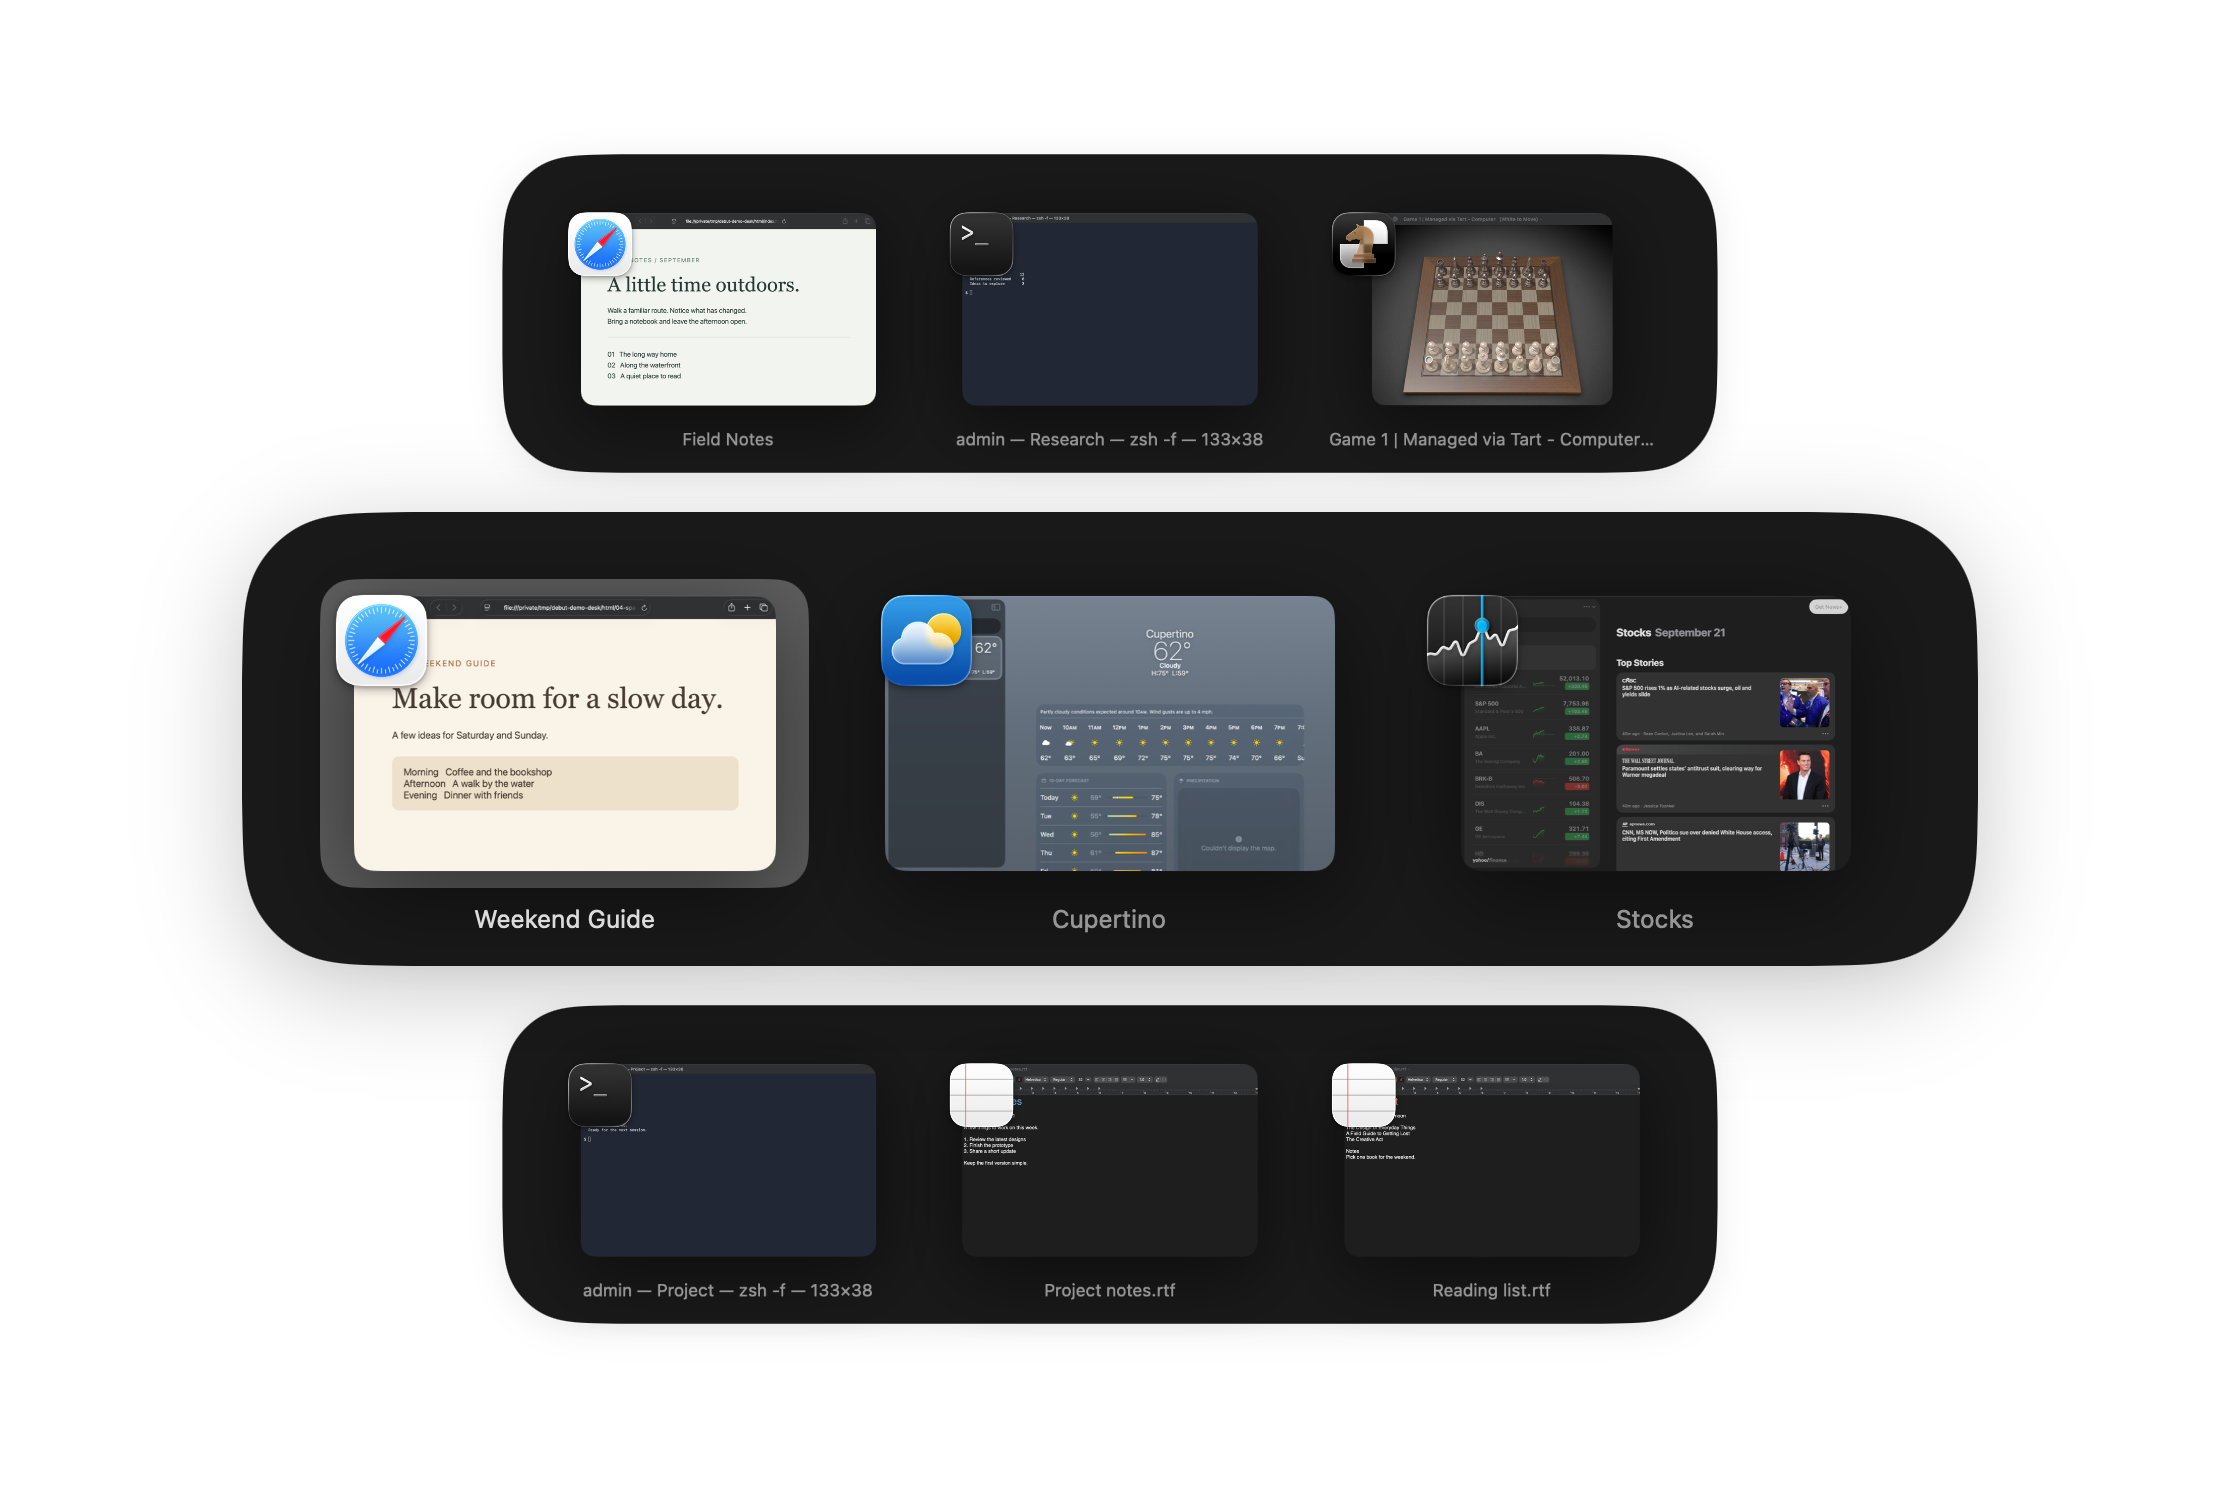
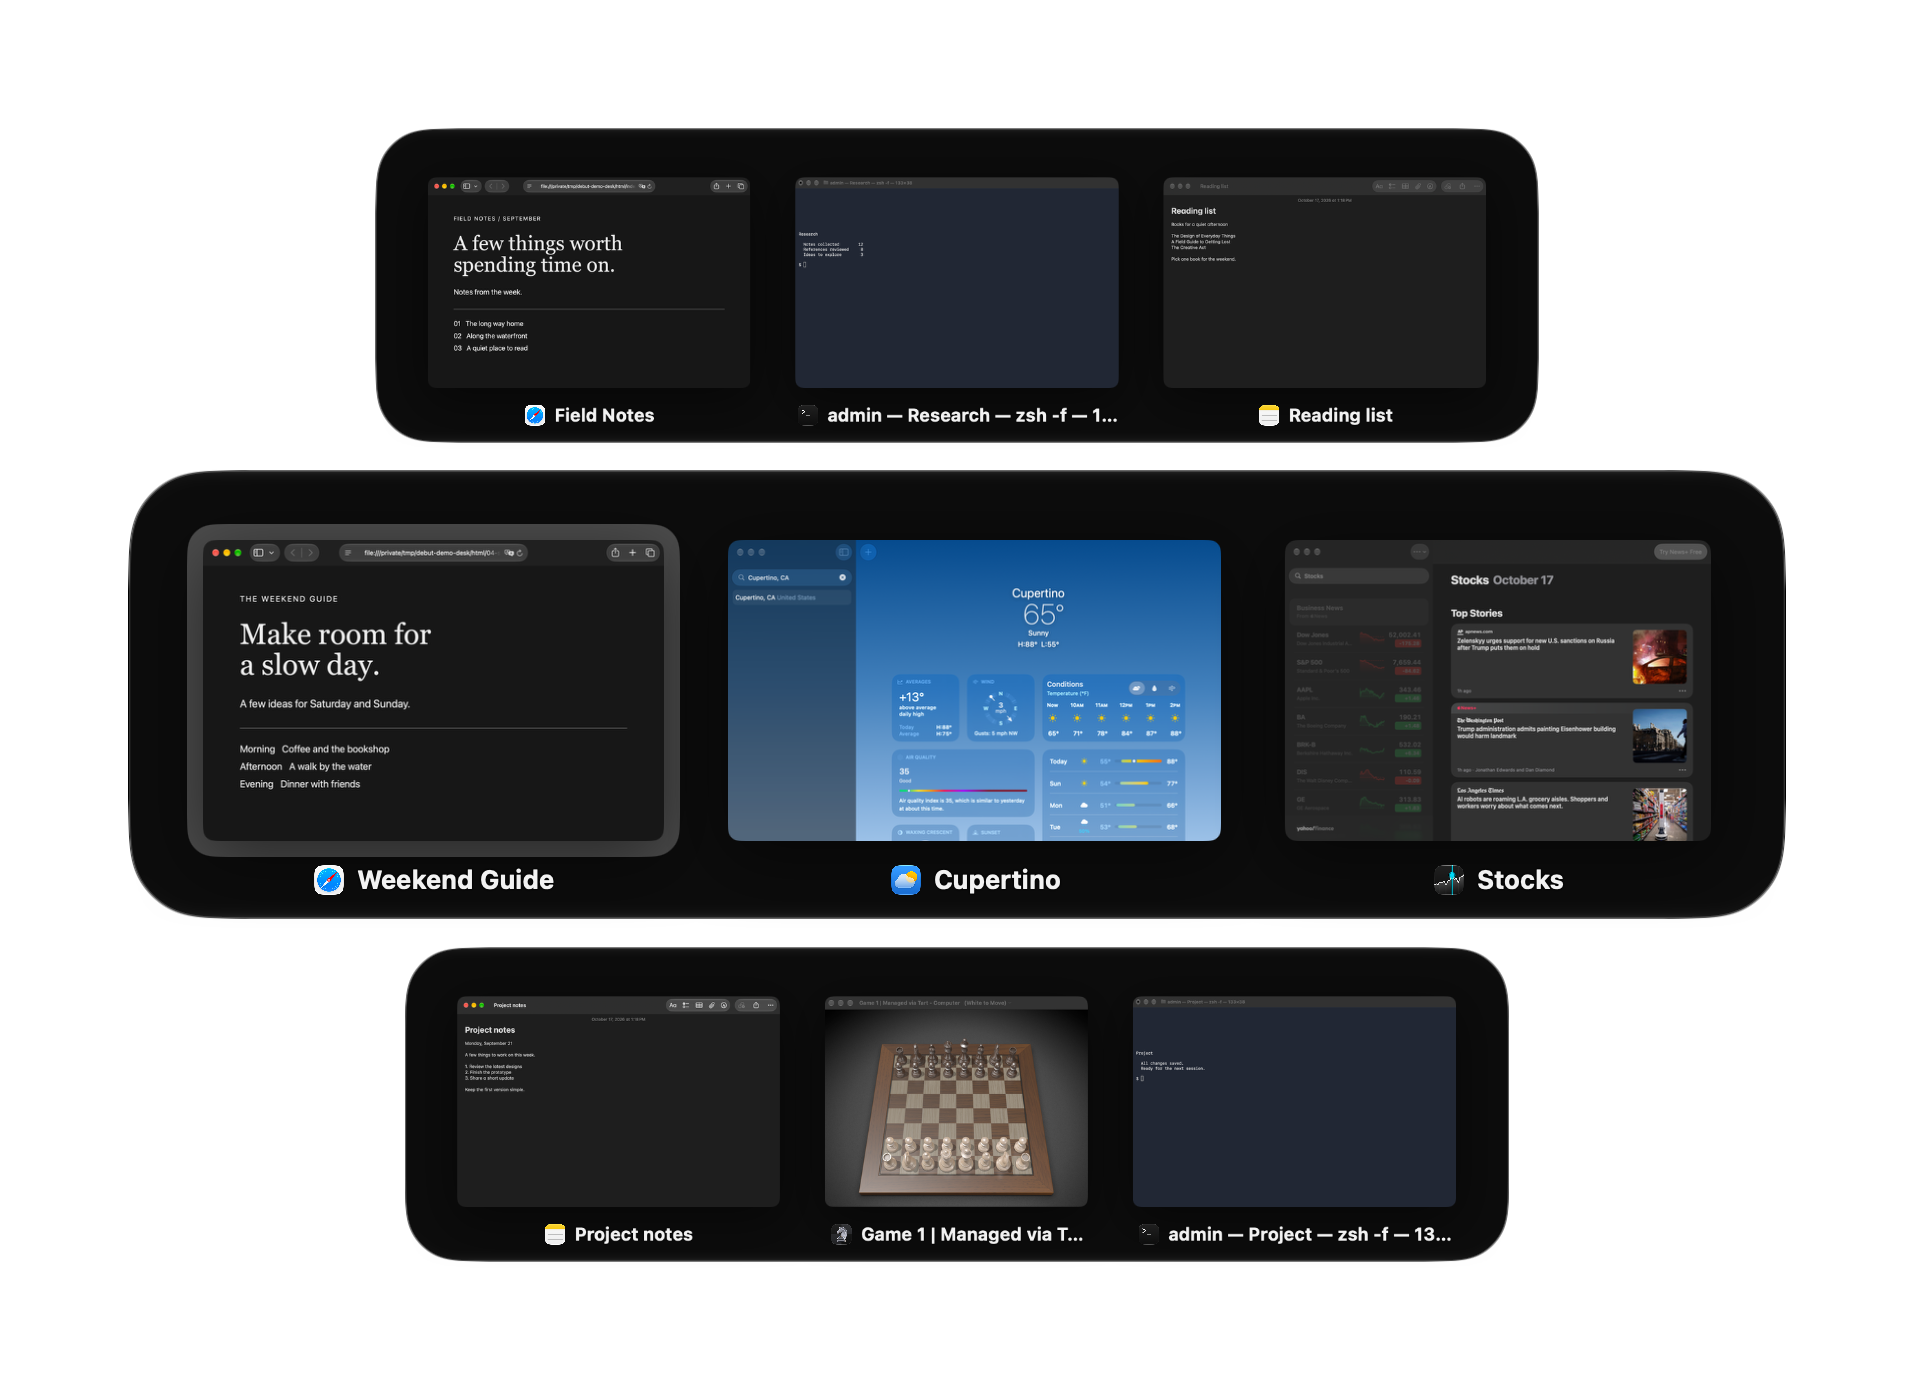
KHA-1122: Capture the README cover and overview GIF on macOS 27
Light and dark covers at fresh defaults, 1914×1396 each (the light one padded by
three transparent rows so the two match), and the overview loop: Command-Tab moves
Stocks to space 1 with Up and back with Down, returning to Weekend Guide. 12.8 s,
1440×900, 2.7 MB. It runs at Debut's default Instant switching: with faster
switching off, macOS 27 switches through the system's Control-number shortcut,
which KeyCastr captions as a press. The opening order is set through Command-Tab,
since an Accessibility raise no longer restacks across apps. The four retired
README GIFs are removed.

Changed region(s): [[0.0617, 0.0924, 0.9556, 0.9241]]

diff --git a/Sources/DebutDemo/ReadmeDemo.swift b/Sources/DebutDemo/ReadmeDemo.swift
@@ -462,6 +462,57 @@ func recordReadme() {
             scene.verifyFocus(scene.groups[1][1], space: 0)
         }
     }
+    if requestedClips.isEmpty || requestedClips.contains("overview") {
+        // README overview (KHA-1122): Command-Tab across spaces and a window move, out and back.
+        // Space 2 opens Weekend Guide, Stocks, Weather, so Stocks is the first Tab and returns
+        // to the same place, and Field Notes leads space 1.
+        let (guide, weather, stocks) = (scene.groups[1][0], scene.groups[1][1], scene.groups[1][2])
+        scene.restore()
+        setDemoAppearance(dark: false)
+        // Debut's default, Instant: with faster switching off, macOS 27 switches through the
+        // system's Control-number shortcut, which KeyCastr would caption as a press.
+        setDemoInstant(true)
+        scene.focus(scene.groups[0][0])
+        scene.focus(weather)
+        // An Accessibility raise does not restack across apps on macOS 27, so the opening
+        // order, the one the loop ends in, is set through Command-Tab before keys are shown.
+        activateThroughSwitcher(stocks)
+        activateThroughSwitcher(guide)
+        scene.verifyFocus(guide, space: 1)
+        scene.startKeys()
+        waitForDemoIndicatorToHide()
+        clip("overview", seconds: 11) {
+            postFlags(.maskCommand)
+            postTap(Key.tab, flags: .maskCommand, duration: 0.2)
+            wait(0.8)
+            verifyDemoSelection(stocks)
+            postTap(Key.upArrow, flags: .maskCommand, duration: 0.2)
+            wait(1.0)
+            verifyDemoSelection(stocks)
+            releaseDemoModifier()
+            scene.verifyFocus(stocks, space: 0)
+            wait(1.2)
+            postFlags(.maskCommand)
+            postTap(Key.tab, flags: .maskCommand, duration: 0.2)
+            wait(0.7)
+            verifyDemoSelection(scene.groups[0][0])
+            postTap(Key.tab, flags: [.maskCommand, .maskShift], duration: 0.16)
+            wait(0.7)
+            verifyDemoSelection(stocks)
+            postTap(Key.downArrow, flags: .maskCommand, duration: 0.2)
+            wait(0.8)
+            verifyDemoSelection(stocks)
+            postTap(Key.tab, flags: .maskCommand, duration: 0.16)
+            wait(0.8)
+            verifyDemoSelection(guide)
+            releaseDemoModifier()
+            scene.verifyFocus(guide, space: 1)
+            guard scene.service.desktopIndex(forWindow: stocks.windowID) == 1 else {
+                log("FAILED: Stocks did not return to space 2"); exit(1)
+            }
+            waitForDemoIndicatorToHide()
+        }
+    }
     if requestedClips.isEmpty || requestedClips.contains("option-tab") {
         scene.restore()
         setDemoAppearance(dark: false)
@@ -572,4 +623,36 @@ func prepareReadmeBackdrop() {
             options: [.imageScaling: NSImageScaling.scaleAxesIndependently.rawValue])
     }
     wait(0.2)
+}
+
+/// Waits for Debut's desktop indicator to finish, so a loop does not end on it.
+func waitForDemoIndicatorToHide() {
+    let deadline = Date().addingTimeInterval(4)
+    while Date() < deadline {
+        let windows = CGWindowListCopyWindowInfo([.optionOnScreenOnly, .excludeDesktopElements], kCGNullWindowID)
+            as? [[String: Any]] ?? []
+        let showing = windows.contains { window in
+            guard window[kCGWindowOwnerName as String] as? String == "Debut",
+                  window[kCGWindowLayer as String] as? Int == Int(NSWindow.Level.statusBar.rawValue),
+                  let bounds = window[kCGWindowBounds as String] as? [String: CGFloat],
+                  let width = bounds["Width"], let height = bounds["Height"] else { return false }
+            return width > 70 && width < 500 && height > 35 && height < 150
+        }
+        if !showing { wait(0.2); return }
+        wait(0.1)
+    }
+    log("FAILED: desktop indicator did not finish before the loop boundary"); exit(1)
+}
+
+/// Brings `target` forward through Debut's Command-Tab, reading the selection back from Debut.
+func activateThroughSwitcher(_ target: WindowInfo) {
+    postFlags(.maskCommand)
+    postTap(Key.tab, flags: .maskCommand, duration: 0.2)
+    wait(0.6)
+    for _ in 0..<8 where demoSelectedWindowID() != target.windowID {
+        postTap(Key.tab, flags: .maskCommand, duration: 0.16)
+        wait(0.4)
+    }
+    verifyDemoSelection(target)
+    releaseDemoModifier()
 }

diff --git a/docs/readme-capture.md b/docs/readme-capture.md
@@ -54,7 +54,7 @@ and that its sidebar has no extra cities.
 | `onboarding` | Four lossless transparent UI screenshots: Command-Tab and Option-Tab, each with previews enabled and disabled; same nine-window scene, no keystroke captions |
 | `onboarding-speed` | Matched Control-Right then Control-Left at 60 fps, space 2 → 3 → 2; macOS default left, Debut Instant right; MP4 and first-frame poster for setup |
 | `cover` | Both `overlay.png` and native dark-mode `overlay-dark.png`, with space 2 expanded |
-| `overview` | Planned (KHA-1122), not yet in the driver; see [Overview clip](#overview-clip). `overview.gif`: space 2, Weekend Guide → hold Command-Tab, Stocks selected → Up → release → Stocks focused in space 1 → hold Command-Tab → Shift-Tab, Stocks selected → Down → Tab, Weekend Guide selected → release → Weekend Guide focused in space 2; fixture as at start |
+| `overview` | See [Overview clip](#overview-clip). `overview.gif`: space 2, Weekend Guide → hold Command-Tab, Stocks selected → Up → release → Stocks focused in space 1 → hold Command-Tab → Shift-Tab, Stocks selected → Down → Tab, Weekend Guide selected → release → Weekend Guide focused in space 2; fixture as at start |
 | `command-tab` | Retired from the README. Terminal fronted in space 3, then space 2 → hold Command-Tab → 3 → Tab → release → Project notes, second window in space 3 |
 | `organize-windows` | Retired from the README. Space 2 → hold Command-Tab, Weather selected → Up → release → Weather in space 1 |
 | `option-tab` | Retired from the README. Safari in space 2 → hold Option-Tab → release → Field Notes Safari window, first in space 1 |
@@ -67,7 +67,7 @@ debutspace.com. The four retired clips stay in the driver and their GIFs stay in
 
 Cards in a space follow its MRU order, not the fixture order, so each switcher clip reads
 Debut's live selection and fails before releasing the modifier if the intended card is not
-selected. Faster switching stays disabled in the overview and the retired single-window demos.
+selected. Faster switching stays disabled in the retired single-window demos; the overview uses the default, Instant.
 The comparison preserves elapsed time: do not accelerate either recording or trim
 the two sides independently around transitions.
 
@@ -77,7 +77,11 @@ One loop of at most about 12 seconds that shows Command-Tab across spaces and a
 window move, and ends on the frame it began with, using the visual baseline above.
 
 Before recording, set recency so Field Notes leads space 1 and space 2 reads Weekend
-Guide, Stocks, Weather, then show space 2 with Weekend Guide frontmost. Wait until every
+Guide, Stocks, Weather, then show space 2 with Weekend Guide frontmost. Set that order
+through Debut's Command-Tab: an Accessibility raise does not restack across apps on
+macOS 27, and the loop ends in that order. Faster switching is Debut's default, Instant;
+with it off, macOS 27 switches through the system's Control-number shortcut, which
+KeyCastr captions as a press nobody made. Wait until every
 preview, including Chess, has loaded.
 
 | Time (s) | Input | Verified result |
@@ -133,8 +137,8 @@ both sides in one run at 60 fps and produces `onboarding-speed.mp4` plus a lossl
 first-frame `onboarding-speed.png` poster. Playback loops silently in setup and
 pauses when the page is hidden; the poster remains visible while video loads.
 
-Omitting `--clips` regenerates both covers and the four retired GIFs; `overview` is
-not implemented yet. Keep raw output
+Omitting `--clips` regenerates both covers, `overview.gif` and the four retired GIFs,
+which the README no longer uses; capture `--clips cover,overview` for the README. Keep raw output
 until visual review passes. The script starts the guest without graphics, audio,
 clipboard, pointer, or keyboard, and installs KeyCastr only inside the guest. Do not
 run the guest script on the host.
@@ -209,12 +213,12 @@ Inspect every changed asset, including the encoded GIF rather than only its raw
 movie. Extract representative frames or a contact sheet:
 
 ```bash
-ffmpeg -loglevel error -y -i docs/media/option-tab.gif \
-  -vf 'fps=1,scale=480:-1,tile=3x3' -frames:v 1 /tmp/debut-option-contact.png
-ffmpeg -loglevel error -y -ss 1.3 -i docs/media/option-tab.gif \
-  -frames:v 1 /tmp/debut-option-overlay.png
+ffmpeg -loglevel error -y -i docs/media/overview.gif \
+  -vf 'fps=1,scale=480:-1,tile=3x3' -frames:v 1 /tmp/debut-overview-contact.png
+ffmpeg -loglevel error -y -ss 1.3 -i docs/media/overview.gif \
+  -frames:v 1 /tmp/debut-overview-overlay.png
 ffprobe -v error -show_entries stream=width,height,nb_frames,duration \
-  -show_entries format=size -of json docs/media/option-tab.gif
+  -show_entries format=size -of json docs/media/overview.gif
 ```
 
 Open the images and check plate color and label contrast, readable keys, Cupertino,
